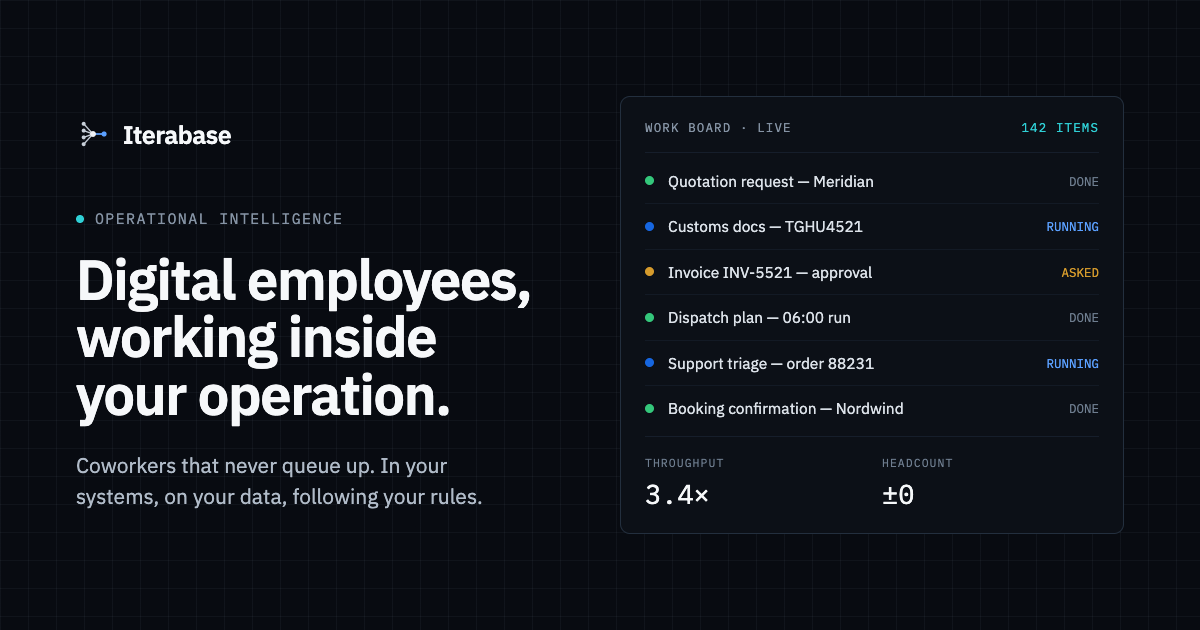
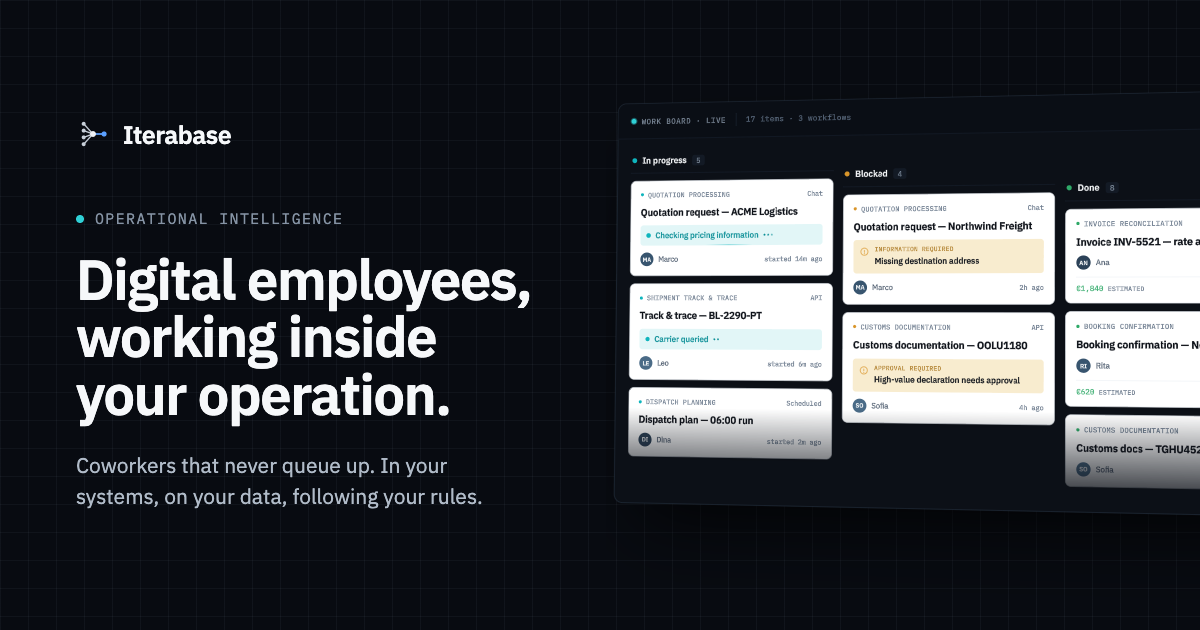
Update social preview image

diff --git a/index.html b/index.html
@@ -18,14 +18,14 @@
 <meta property="og:locale" content="en_US">
 <meta property="og:title" content="Iterabase — Digital employees, working inside your operation.">
 <meta property="og:description" content="Coworkers that never queue up. They run in your systems, on your data, following your rules — and everything they do stays visible. AI is the engine, not the product.">
-<meta property="og:image" content="https://www.iterabase.com/assets/og-image.png">
+<meta property="og:image" content="https://www.iterabase.com/assets/og-image.png?v=20260814-2">
 <meta property="og:image:width" content="1200">
 <meta property="og:image:height" content="630">
 <meta property="og:image:alt" content="Iterabase work board — digital employees running quotation, customs, invoice and dispatch work.">
 <meta name="twitter:card" content="summary_large_image">
 <meta name="twitter:title" content="Iterabase — Digital employees, working inside your operation.">
 <meta name="twitter:description" content="Coworkers that never queue up. They run in your systems, on your data, following your rules — and everything they do stays visible. AI is the engine, not the product.">
-<meta name="twitter:image" content="https://www.iterabase.com/assets/og-image.png">
+<meta name="twitter:image" content="https://www.iterabase.com/assets/og-image.png?v=20260814-2">
 <meta name="twitter:image:alt" content="Iterabase work board — digital employees running quotation, customs, invoice and dispatch work.">
 <script type="application/ld+json">
 {
